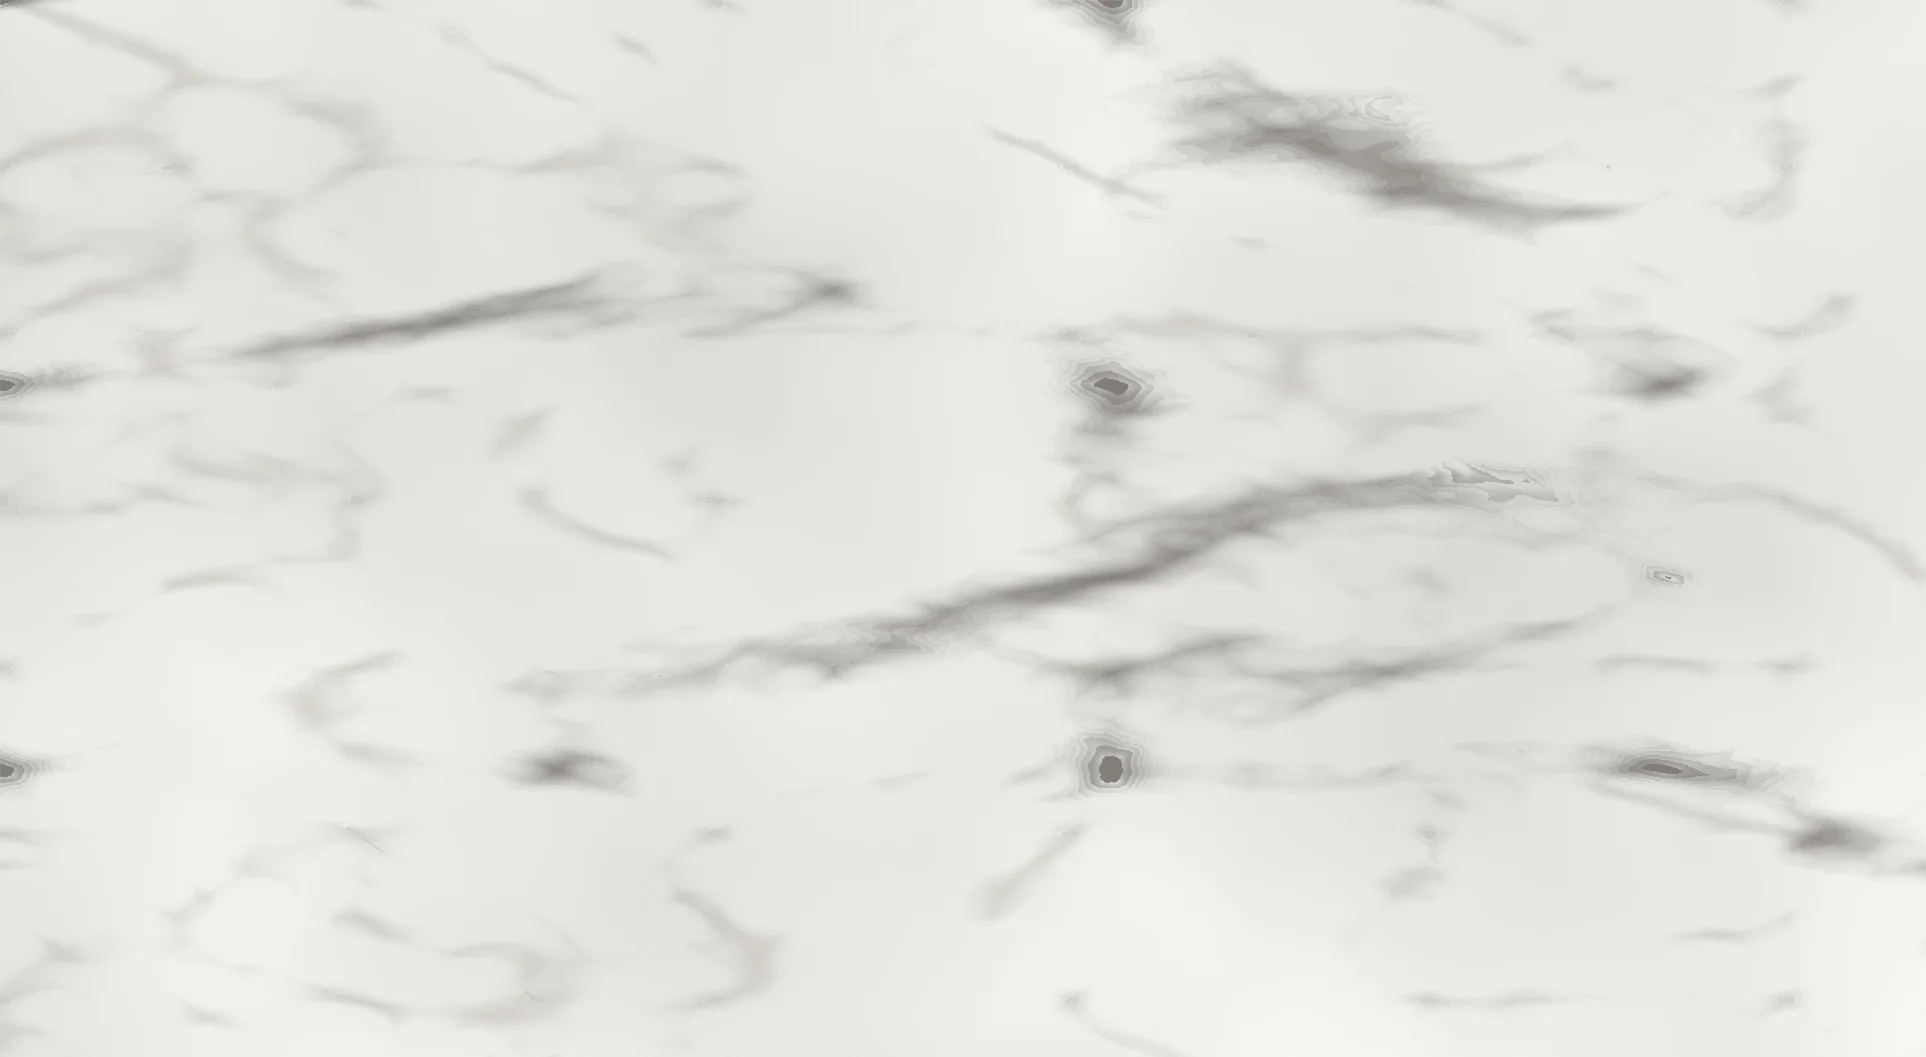
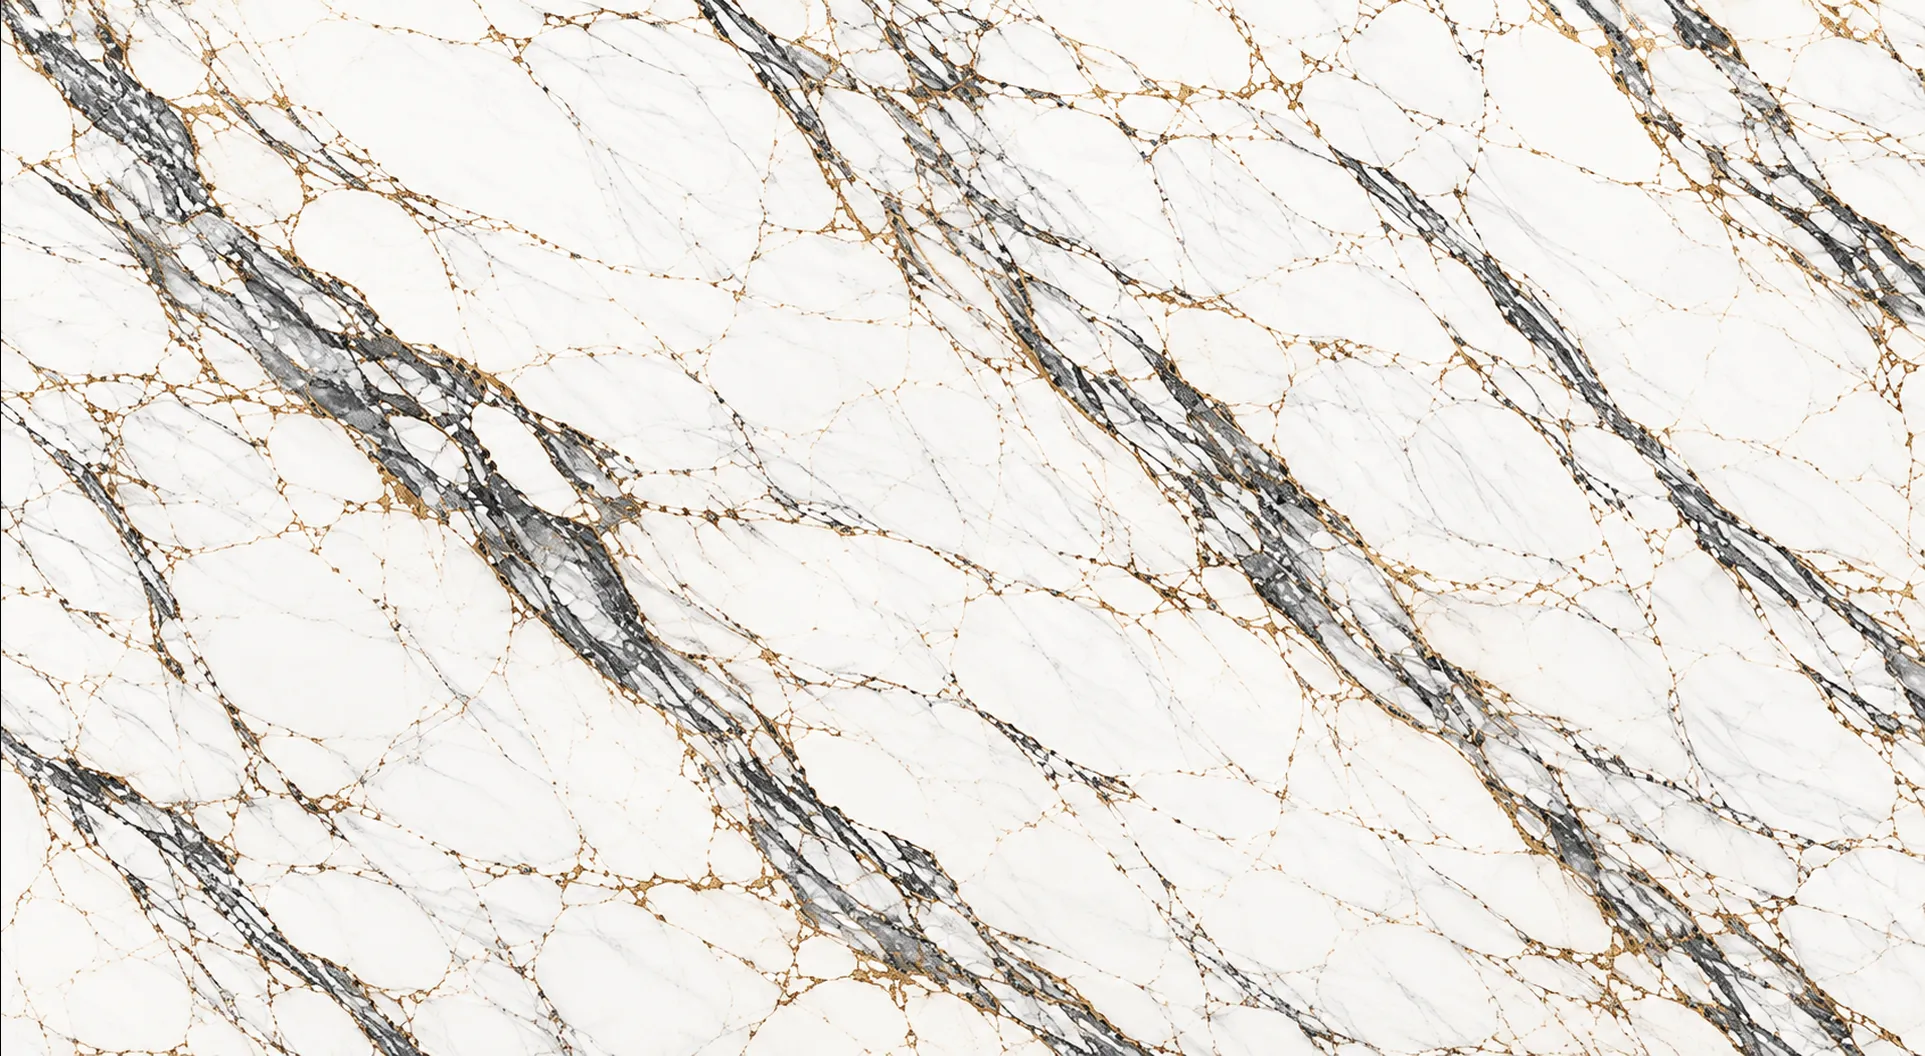
Wall-wrap samples: supplied textures and darker text overlay
- Replace the procedural finish textures with the 11 supplied full-frame
  textures (faux concrete, marble, wood cladding, Roman clay, 3D rock wall,
  wallpaper, coffee shop graphic, linen, residential wrap, wainscoting,
  paint & trim), converted to WebP (1.45MB total)
- Loop extended to 22s (1.8s per finish) for all three samples
- Darker CMI-style overlay on the text-overlay sample
- Remove scripts/build-wall-finishes.mjs and its generated textures

diff --git a/components/labs/wall-wrap-test.tsx b/components/labs/wall-wrap-test.tsx
@@ -8,19 +8,23 @@ import './wall-wrap-test.css';
 
 type Finish = {id: string; name: string; detail: string; background: string};
 const texture = (file: string) => `url(/images/wall-wrap/finishes/${file}.webp) center/cover no-repeat`;
-// Finishes in reveal order. Textures are illustrative, generated by scripts/build-wall-finishes.mjs.
+// Finishes in reveal order, from docs/textures/layeredfx-full-frame-regenerated-textures-1925x1056 (converted to WebP).
 const FINISHES: Finish[] = [
-  {id: 'color', name: 'Single color wrap', detail: 'Midnight navy', background: '#141925'},
-  {id: 'graphic', name: 'Graphic wall wrap', detail: 'Custom printed graphics', background: texture('graphic')},
-  {id: 'concrete', name: 'Concrete look', detail: 'Architectural concrete', background: texture('concrete')},
-  {id: 'clay', name: 'Roman clay', detail: 'Soft mineral texture', background: texture('roman-clay')},
-  {id: 'wallpaper', name: 'Wallpaper pattern', detail: 'Art deco scallop repeat', background: texture('wallpaper')},
-  {id: 'marble', name: 'Marble style', detail: 'Veined stone look', background: texture('marble')},
-  {id: 'cladding', name: 'Wood cladding', detail: 'Vertical slat look', background: texture('cladding')},
+  {id: 'faux-concrete', name: 'Faux concrete', detail: 'Hand-troweled concrete look', background: texture('faux-concrete')},
+  {id: 'marble', name: 'Marble', detail: 'Veined stone look', background: texture('marble')},
+  {id: 'wood-cladding', name: 'Wood cladding', detail: 'Vertical slat look', background: texture('wood-cladding')},
+  {id: 'roman-clay', name: 'Roman clay', detail: 'Soft mineral plaster', background: texture('roman-clay')},
+  {id: 'rock-wall', name: '3D rock wall', detail: 'Dark dimensional stone look', background: texture('rock-wall')},
+  {id: 'wallpaper', name: 'Wallpaper', detail: 'Botanical pattern', background: texture('wallpaper')},
+  {id: 'coffee-shop-graphic', name: 'Coffee shop wall graphic', detail: 'Commercial printed graphic', background: texture('coffee-shop-graphic')},
+  {id: 'linen', name: 'Linen texture', detail: 'Woven wallcovering look', background: texture('linen')},
+  {id: 'residential-wrap', name: 'Residential wall wrap', detail: 'Printed wave design', background: texture('residential-wrap')},
+  {id: 'wainscoting', name: 'Wainscoting', detail: 'Raised panel look', background: texture('wainscoting')},
+  {id: 'paint-trim', name: 'Paint & trim', detail: 'Two colors with a trim line', background: texture('paint-trim')},
 ];
 
-// Shared 16s clock (matches animation-duration in the CSS): each finish reveals every 2s, the last one holds, then everything resets.
-const LOOP = 16, STEP = 2, LEAD = 0.5, REVEAL = 0.7, LAST = FINISHES.length - 1;
+// Shared 22s clock (matches animation-duration in the CSS): each finish reveals every 1.8s, the last one holds, then everything resets.
+const LOOP = 22, STEP = 1.8, LEAD = 0.5, REVEAL = 0.6, LAST = FINISHES.length - 1;
 const pct = (seconds: number) => `${(seconds / LOOP * 100).toFixed(2)}%`;
 const start = (i: number) => LEAD + i * STEP;
 const KEYFRAMES = FINISHES.map((_, i) => {

diff --git a/components/labs/wall-wrap-test.css b/components/labs/wall-wrap-test.css
@@ -29,8 +29,8 @@
 .wwt-sectional{left:20.0713%;top:54.7820%;width:59.7783%;height:39.5921%}
 .wwt-plant{left:78.0285%;top:44.5148%;width:14.8852%;height:39.6624%}
 
-/* Wraps: keyframes are generated per finish in wall-wrap-test.tsx on a shared 16s clock. */
-.wwt-wrap,.wwt-now em,.wwt-card-swatch i,.wwt-card-names>div,.wwt-card-progress i{animation-duration:16s;animation-iteration-count:infinite;animation-fill-mode:both}
+/* Wraps: keyframes are generated per finish in wall-wrap-test.tsx on a shared 22s clock. */
+.wwt-wrap,.wwt-now em,.wwt-card-swatch i,.wwt-card-names>div,.wwt-card-progress i{animation-duration:22s;animation-iteration-count:infinite;animation-fill-mode:both}
 .wwt-wrap{position:absolute;inset:0}
 .wwt-swipe .wwt-wrap{transform:translateX(-101%)}
 .wwt-swipe .wwt-wrap::after{content:'';position:absolute;top:0;bottom:0;left:100%;width:2.5%;background:linear-gradient(90deg,#ffffffb3,#ffffff00);filter:blur(3px)}
@@ -43,8 +43,8 @@
 .wwt-finishes li{display:inline-flex;align-items:center;gap:8px}
 .wwt-finishes i{width:22px;height:22px;border-radius:50%;box-shadow:inset 0 0 0 1px #ffffff40}
 
-/* Sample 2: CMI-style text overlay, lighter than the CMI shade. */
-.wwt-cmi-shade{position:absolute;inset:0;background:linear-gradient(90deg,#0e121bb3 0%,#0e121b73 38%,#0e121b1f 70%,#0e121b00 100%),linear-gradient(0deg,#0e121bb3 0%,#0e121b00 32%)}
+/* Sample 2: CMI-style text overlay. */
+.wwt-cmi-shade{position:absolute;inset:0;background:linear-gradient(90deg,#0e121be6 0%,#0e121bc7 40%,#0e121b8c 72%,#0e121b66 100%),linear-gradient(0deg,#0e121bf2 0%,#0e121b00 40%),linear-gradient(180deg,#0e121b99 0%,#0e121b00 22%)}
 .wwt-cmi{position:absolute;inset:0;display:flex;flex-direction:column;padding:clamp(22px,5%,64px)}
 .wwt-badge{align-self:flex-start;display:inline-flex;align-items:center;gap:10px;padding:9px 18px;border:1px solid #ffffff33;border-radius:999px;background:#0e121b59;backdrop-filter:blur(8px);font-size:clamp(12px,1.2vw,15px);font-weight:600}
 .wwt-badge i{width:8px;height:8px;border-radius:50%;background:#aedb22}
